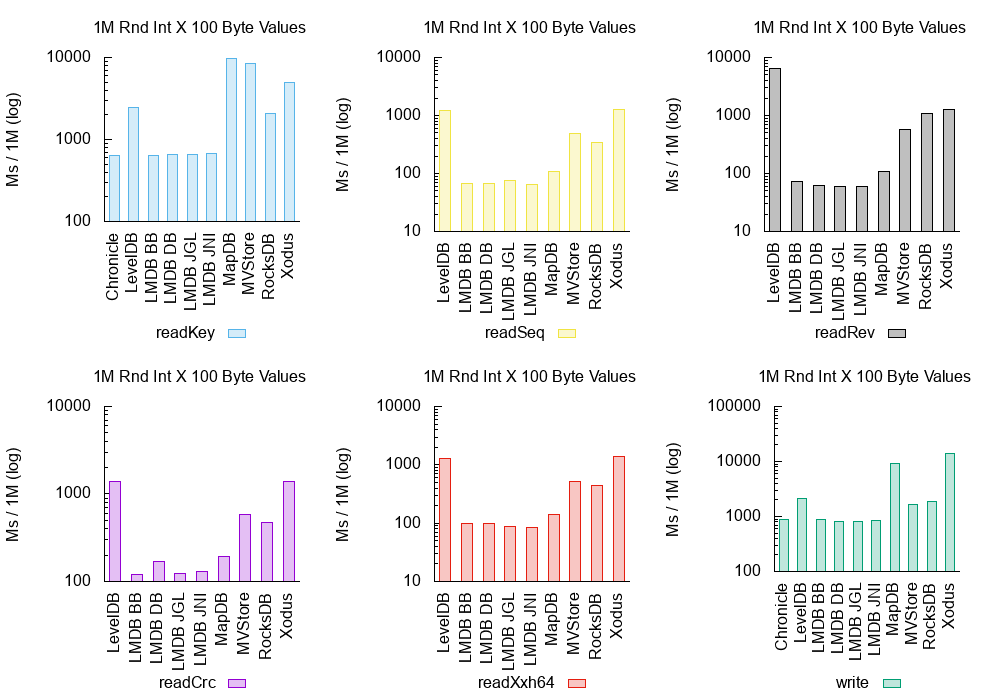
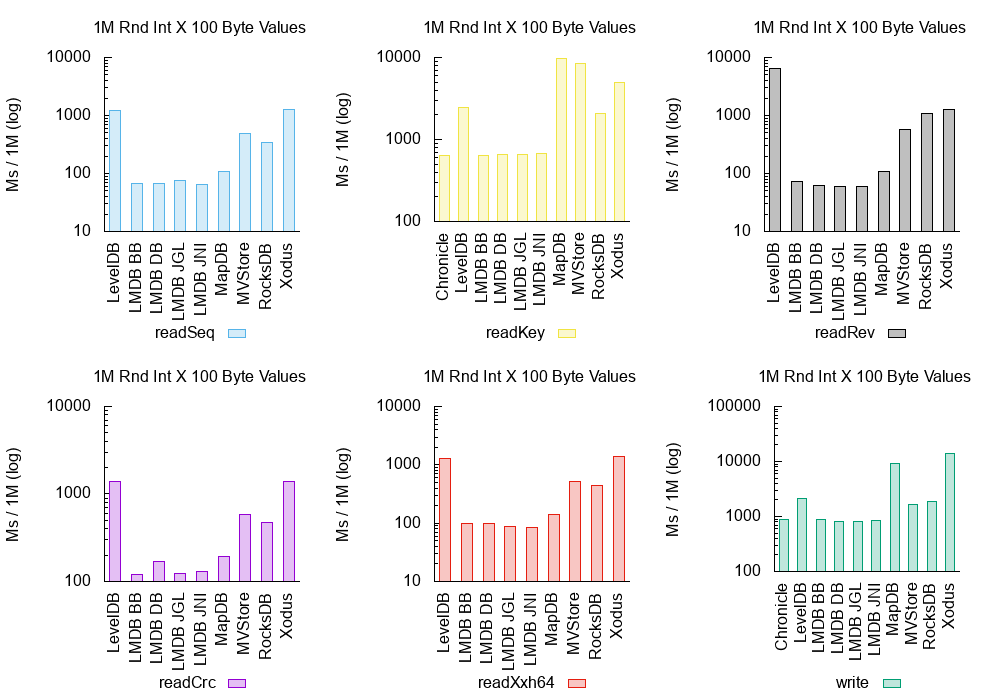
Another graph, remove no meta sync, reduce words

diff --git a/results/20160710/README.md b/results/20160710/README.md
@@ -1,23 +1,10 @@
 ## Introduction
 This report provides a performance evaluation of ten embedded key-value (K-V)
 store library options available to Java applications. It evaluates a range of
-small (99 MB) to large (152 GB) workloads that can be easily stored in memory on
-server-grade hardware. The evaluation includes the write performance, actual
-storage required, and a range of read scenarios including fetching entries by
-key, sequentially iterating over all entries, reverse iterating over all
-entries, computing a sequential CRC32 of all entries, and computing a sequential
-xxHash of all entries. The write benchmarks and read by key benchmarks are
-evaluated when keys are provided in both sequential and random order.
-
-We confirm separately-reported findings that
-[LSM](https://en.wikipedia.org/wiki/Log-structured_merge-tree)-based
-implementations often provide faster write performance and higher
-storage space efficiency than the
-[B+ Tree](https://en.wikipedia.org/wiki/B%2B_tree)-based alternatives. However,
-the write performance benefits of LSM disappears as larger values are used
-(owing to LSM write amplification overhead). In addition, with appropriate
-selection of entry sizes, the storage overhead can also be minimised to
-immaterial levels.
+small (99 MB) to large (152 GB) workloads that were easily stored in memory on
+server-grade hardware. The evaluation includes a variety of key types, value
+sizes, number of entries, key access patterns, iteration styles and
+implementation-specific configuration settings.
 
 ## Methodology
 The benchmark was executed on 10 July 2016 using
@@ -34,11 +21,15 @@ JetBrains [Xodus](https://github.com/JetBrains/xodus) 1.0.0.
 Those implementations that rely upon native code used the shared libraries
 bundled inside their JAR files.
 
-The test server had 512 GB RAM and 2 x Intel Xeon E5-2667 v 3 CPUs. The `/tmp`
+The test server had 512 GB RAM and dual Intel Xeon E5-2667 v 3 CPUs. The `/tmp`
 directory (on a 256 GB `tmpfs` file system) was used as the work directory
 during each benchmark. The server was running Linux 4.6.3 (x86_64) with
 Java 1.8.0_92, and had its `/etc/security/limits.conf` configured with soft and
 hard `nofile` limits of 1,000,000.
+
+All benchmarks were executed by the standard
+[JMH](http://openjdk.java.net/projects/code-tools/jmh/) creation of JVM forks
+with default JVM arguments. No custom garbage collection parameters were used.
 
 The tests and graphs can be reproduced by checking out the previously-specified
 LmdbJava Benchmarks version on a Linux server with the required `nofile`
@@ -52,20 +43,21 @@ was to remove Xodus from the `out-6.csv` file given its performance distorted
 the `6-*.png` graphs. The original Xodus test 6 results remain in `out-6.txt`.
 
 ## Results
-Five benchmarks are reported:
+Six benchmarks are reported:
 
-* `readCrc`: Iterate over ordered entries, computing a CRC32 of keys and values
-* `readSeq`: Iterate over ordered entries, sending each value to the black hole
+* `write`: Bulk insert the entries into the store
+* `readKey`: Fetch each entry by presenting its key, sending each value to the
+   JMH black hole
+* `readSeq`: Iterate over the key-ordered entries, sending each value to the
+   JMH black hole
 * `readRev`: Same as `readSeq`, except iterating entries in reverse order
+* `readCrc`: Iterate over the key-ordered entries, computing a CRC32 of keys and values
 * `readXxh64`: Same as `readCrc`, except computing an XXH64 via
   [Zero-Allocation-Hashing](https://github.com/OpenHFT/Zero-Allocation-Hashing)
   (ZAH XXH64 is currently the fastest JVM hasher, as separately benchmarked via
   [Hash-Bench](https://github.com/benalexau/hash-bench))
-* `write`: Write the 1M/10M entries out in an implementation-optimal manner (eg
-  via a single transaction or batch if supported)
 
-To make the graphs and associated discussion more concise, the follow terms are
-used:
+To make the graphs more concise, the follow terms are used:
 
 * Int/Integer: 32-bit signed integer (using the implementation's default byte
   ordering)
@@ -73,6 +65,7 @@ used:
 * Ms: Milliseconds
 * Rnd: Random data access (ie integers selected from a
   [Mersenne Twister](https://en.wikipedia.org/wiki/Mersenne_Twister))
+* Sec: Seconds
 * Seq: Sequential data access (ie ordered integers from 0 to 1M/10M)
 * Str: 16 byte string containing a zero-padded integer (no length prefix or null
   terminator)
@@ -126,15 +119,6 @@ LMDB also supports a `MDB_WRITEMAP` flag, which enables a writable memory map.
 Enabling the write map (shown as `(wm)` above) results in improved write
 latencies. It remains enabled for the remainder of the benchmark.
 
-### Meta Sync
-
-![img](1-metaSync-writes.png)
-
-This final LMDB-specific benchmark explores the write latency impact of the
-`MDB_NOMETASYNC` flag. This flag prevents an fsync metapage after commit. Given
-the results are inconclusive across different buffer types, it will be disabled
-for the remainder of the benchmark.
-
 ## Test 2: Determine ~2/4/8/16 KB Byte Values
 Some of the later tests require larger value sizes in order to explore the
 behaviour at higher memory workloads. This second test was therefore focused
@@ -169,11 +153,11 @@ comparison of each library's performance (as distinct from storage) trade-offs.
 
 ![img](3-batchSize-writes.png)
 
-LevelDB, RocksDB and Xodus are all LSM-based stores and benefit from inserting
-data in batches. Early testing of Xodus with large value sizes and large batch
-sizes rapidly led to Java out of memory exceptions (with the default JMH-forked
-JVM memory configuration). As such, a static write batch size of 1,000 was
-always used for Xodus.
+LevelDB, RocksDB and Xodus are all
+[LSM](https://en.wikipedia.org/wiki/Log-structured_merge-tree)-based stores and
+benefit from inserting data in batches. Early testing of Xodus with large value
+sizes and large batch sizes rapidly led to Java out of memory exceptions. As
+such, a static write batch size of 1,000 was always used for Xodus.
 
 LevelDB and RocksDB both handled large value sizes with a variety of very large
 batch sizes. The above graph illustrates the batch size impact when writing 10M
@@ -399,11 +383,11 @@ The trend toward better storage efficiency with larger values has continued.
 
 ![img](6-intKey-rnd-8176.png)
 
-Now that much larger value keys are in use, we start to see the LSM
-implementations slowed down by write amplification. With 8,176 byte values,
-LMDB actually completes the write workload faster than the other sorted
-implementations in 182 seconds. RocksDB comes in next at 192 seconds, and
-finally LevelDB at 268 seconds. As usual, LMDB offers the fastest reads.
+Now that much larger values are in use, we start to see the LSM implementations
+slowed down by write amplification. With 8,176 byte values, LMDB actually
+completes the write workload faster than the other sorted implementations in
+182 seconds. RocksDB comes in next at 192 seconds, and finally LevelDB at
+268 seconds. As usual, LMDB offers the fastest reads.
 
 ### 152 GB Random Access of 16,368 Byte Values
 
@@ -437,11 +421,10 @@ After testing many workloads from 99 MB to 152 GB, we have seen a number of
 important differences between the implementations.
 
 Before discussing the ordered key implementations, it is noted that Chronicle
-Map offers a good all-round option for unordered keys. It's consistently fast
-for both reads and writes, plus storage space efficient. These properties are
-sustained regardless of entry size. Chronicle Map also offers a different
-functional scope than the other embedded key-value stores in this report. For
-example, it lacks transactions but does offer inter-node replication.
+Map offers a good option for unordered keys. It's consistently fast for both
+reads and writes, plus storage space efficient. Chronicle Map also offers a
+different scope than the other embedded key-value stores in this report. For
+example, it lacks transactions but does offer replication.
 
 Ordered key implementations were the focus of this report. Those use cases which
 can employ ordered keys will always achieve much better read performance by
@@ -479,17 +462,17 @@ compressed values. This may also improve performance in the case of IO
 bottlenecks, as the CPU can decompress while waiting on further IO.
 
 In terms of broader efficiency, LMDB operates in the same thread as its caller
-and therefore its reported performance is a total indication of LMDB overhead.
+and therefore the performance reported above is a total indication of LMDB cost.
 On the other hand, RocksDB and LevelDB use a second thread for write compaction.
-This results in a material component of sorting overhead in an unreported
-thread. We also see a similar situation with operating system resource
-consumption, with LMDB only requiring two open files. RocksDB and LevelDB both
-require large numbers of open files to operate. Finally, RocksDB and LevelDB
-need careful tuning and batch sizing. LMDB does not require such configuration.
+This second thread may compete with application workloads on busy servers. We
+also see a similar efficiency concern around operating system file handle
+consumption. While LMDB only requires two open files, RocksDB and LevelDB both
+require tens to hundreds of thousands of open files to operate.
 
 The qualitative dimensions of each implementation should also be considered. For
 example, consider recovery time from dirty shutdown (eg process/OS/server crash),
 ACID transaction guarantees, inter-process usage flexibility, runtime monitoring
 requirements, hot backup support and ongoing configuration effort. In these
 situations LMDB delivers a very strong solution. For more information, see the
-[LMDB Feature Comparison Chart](https://symas.com/products/lightning-memory-mapped-database/feature-comparison/).
+[LMDB Feature Comparison Chart](https://symas.com/products/lightning-memory-mapped-database/feature-comparison/)
+and [LmdbJava](https://github.com/lmdbjava/lmdbjava) features list.
